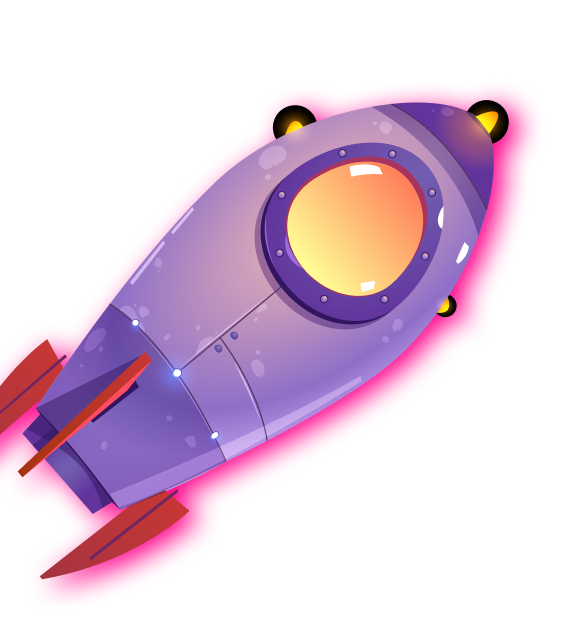
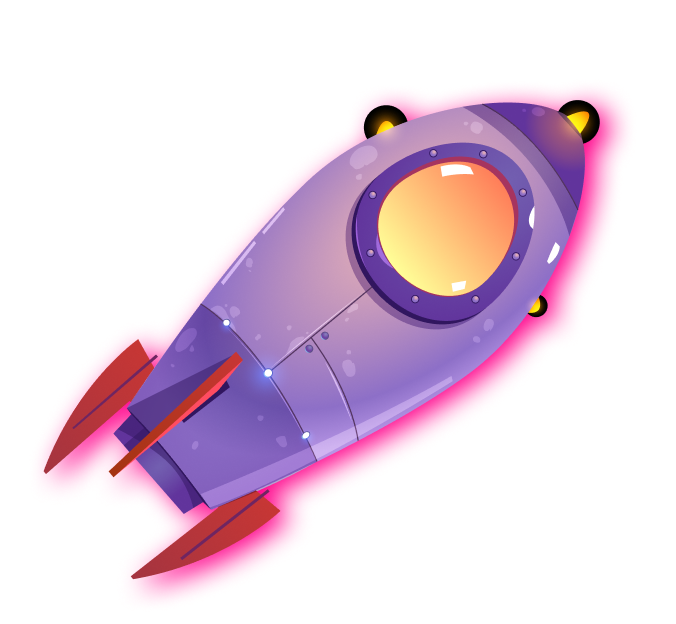
aaaaaaaaaa

diff --git a/src/pages/Landing.tsx b/src/pages/Landing.tsx
@@ -1,7 +1,7 @@
 import Navbar from "@/components/Navbar";
 import { Button } from "@/components/ui/button";
 import PurpleShape from "../assets/purple_shape.png";
-import Rocket from "../assets/rocket.png";
+import Rocket from "../assets/rocket.svg";
 import PurpleSphere from "../assets/purple_sphere.png";
 import YellowSphere from "../assets/yellow_sphere.png";
 import { useNavigate } from "react-router-dom";
@@ -27,8 +27,8 @@ const Landing = () => {
         />
       </div>
       <Navbar />
-      <main className="relative flex flex-col-reverse items-center justify-center text-center pt-32 md:flex-row">
-        <div className="lg:absolute w-[30rem] h-[30rem] left-0 top-[50%]">
+      <main className="relative flex items-center justify-center text-center pt-32">
+        <div className="lg:absolute hidden md:block md:w-[20rem] md:h-[20rem] lg:w-[30rem] lg:h-[30rem] left-0 top-[50%]">
           <img src={Rocket} className="w-full h-full" />
         </div>
         <div className="flex flex-col gap-2 items-start md:ml-12 lg:ml-80">
